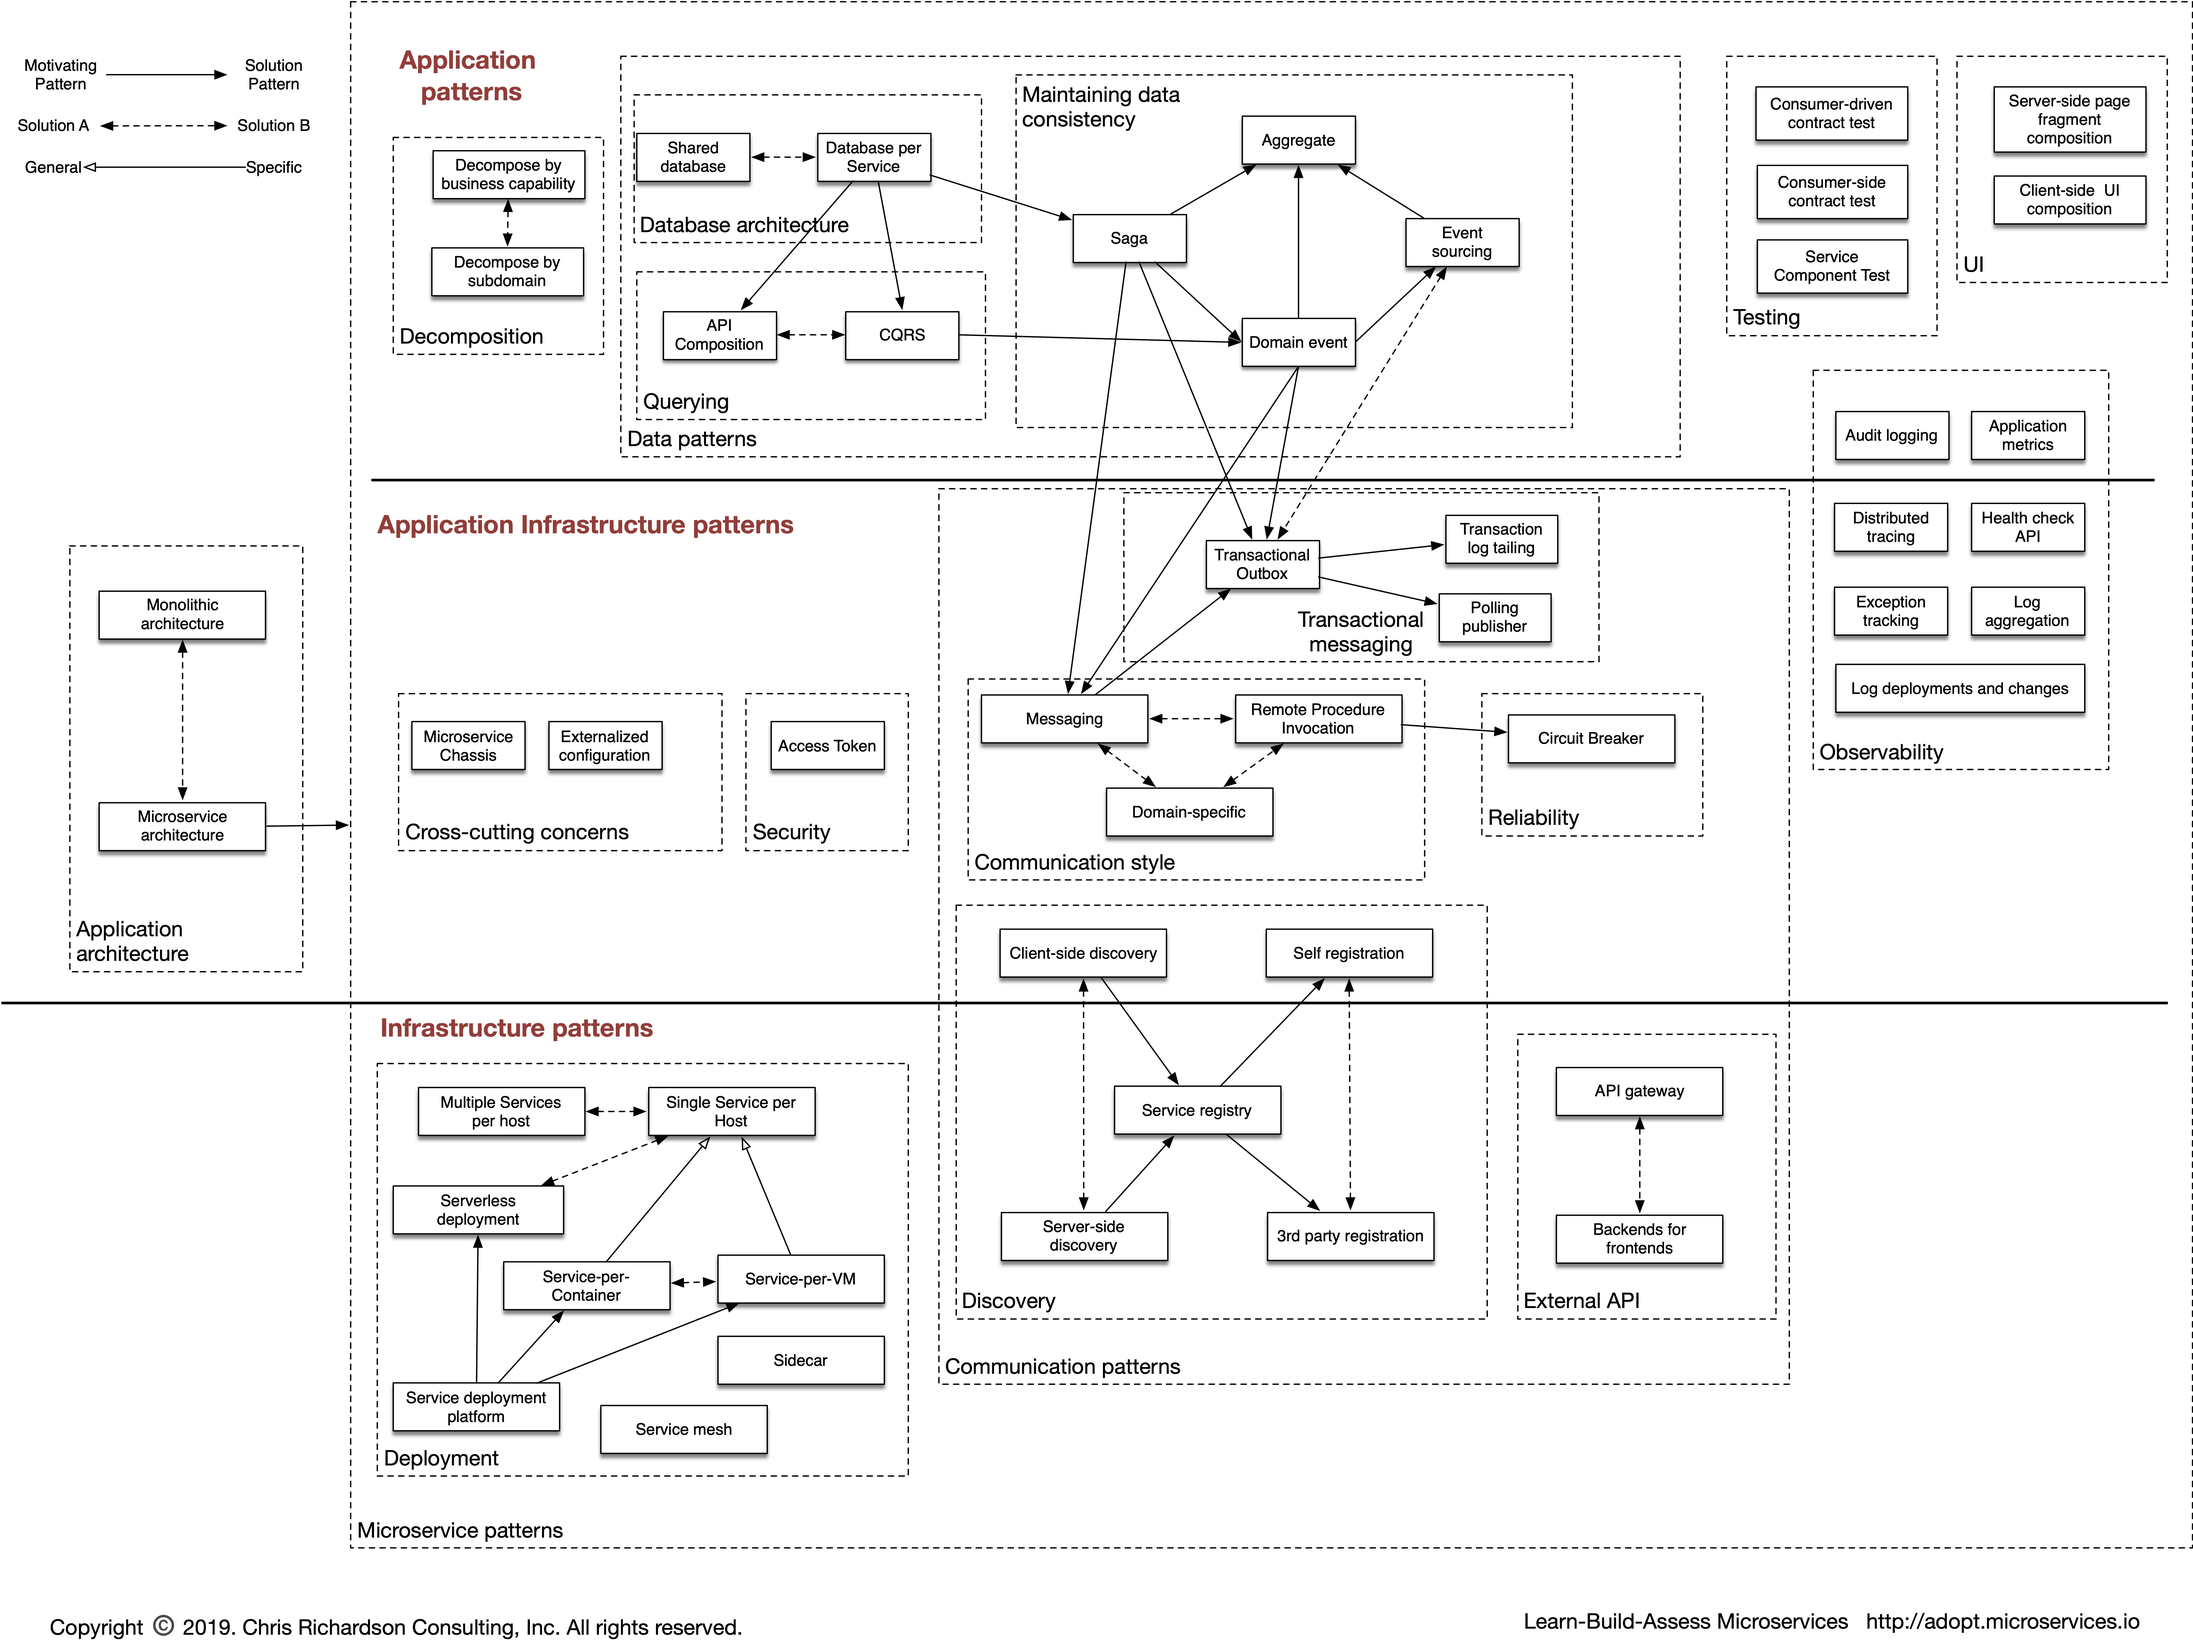
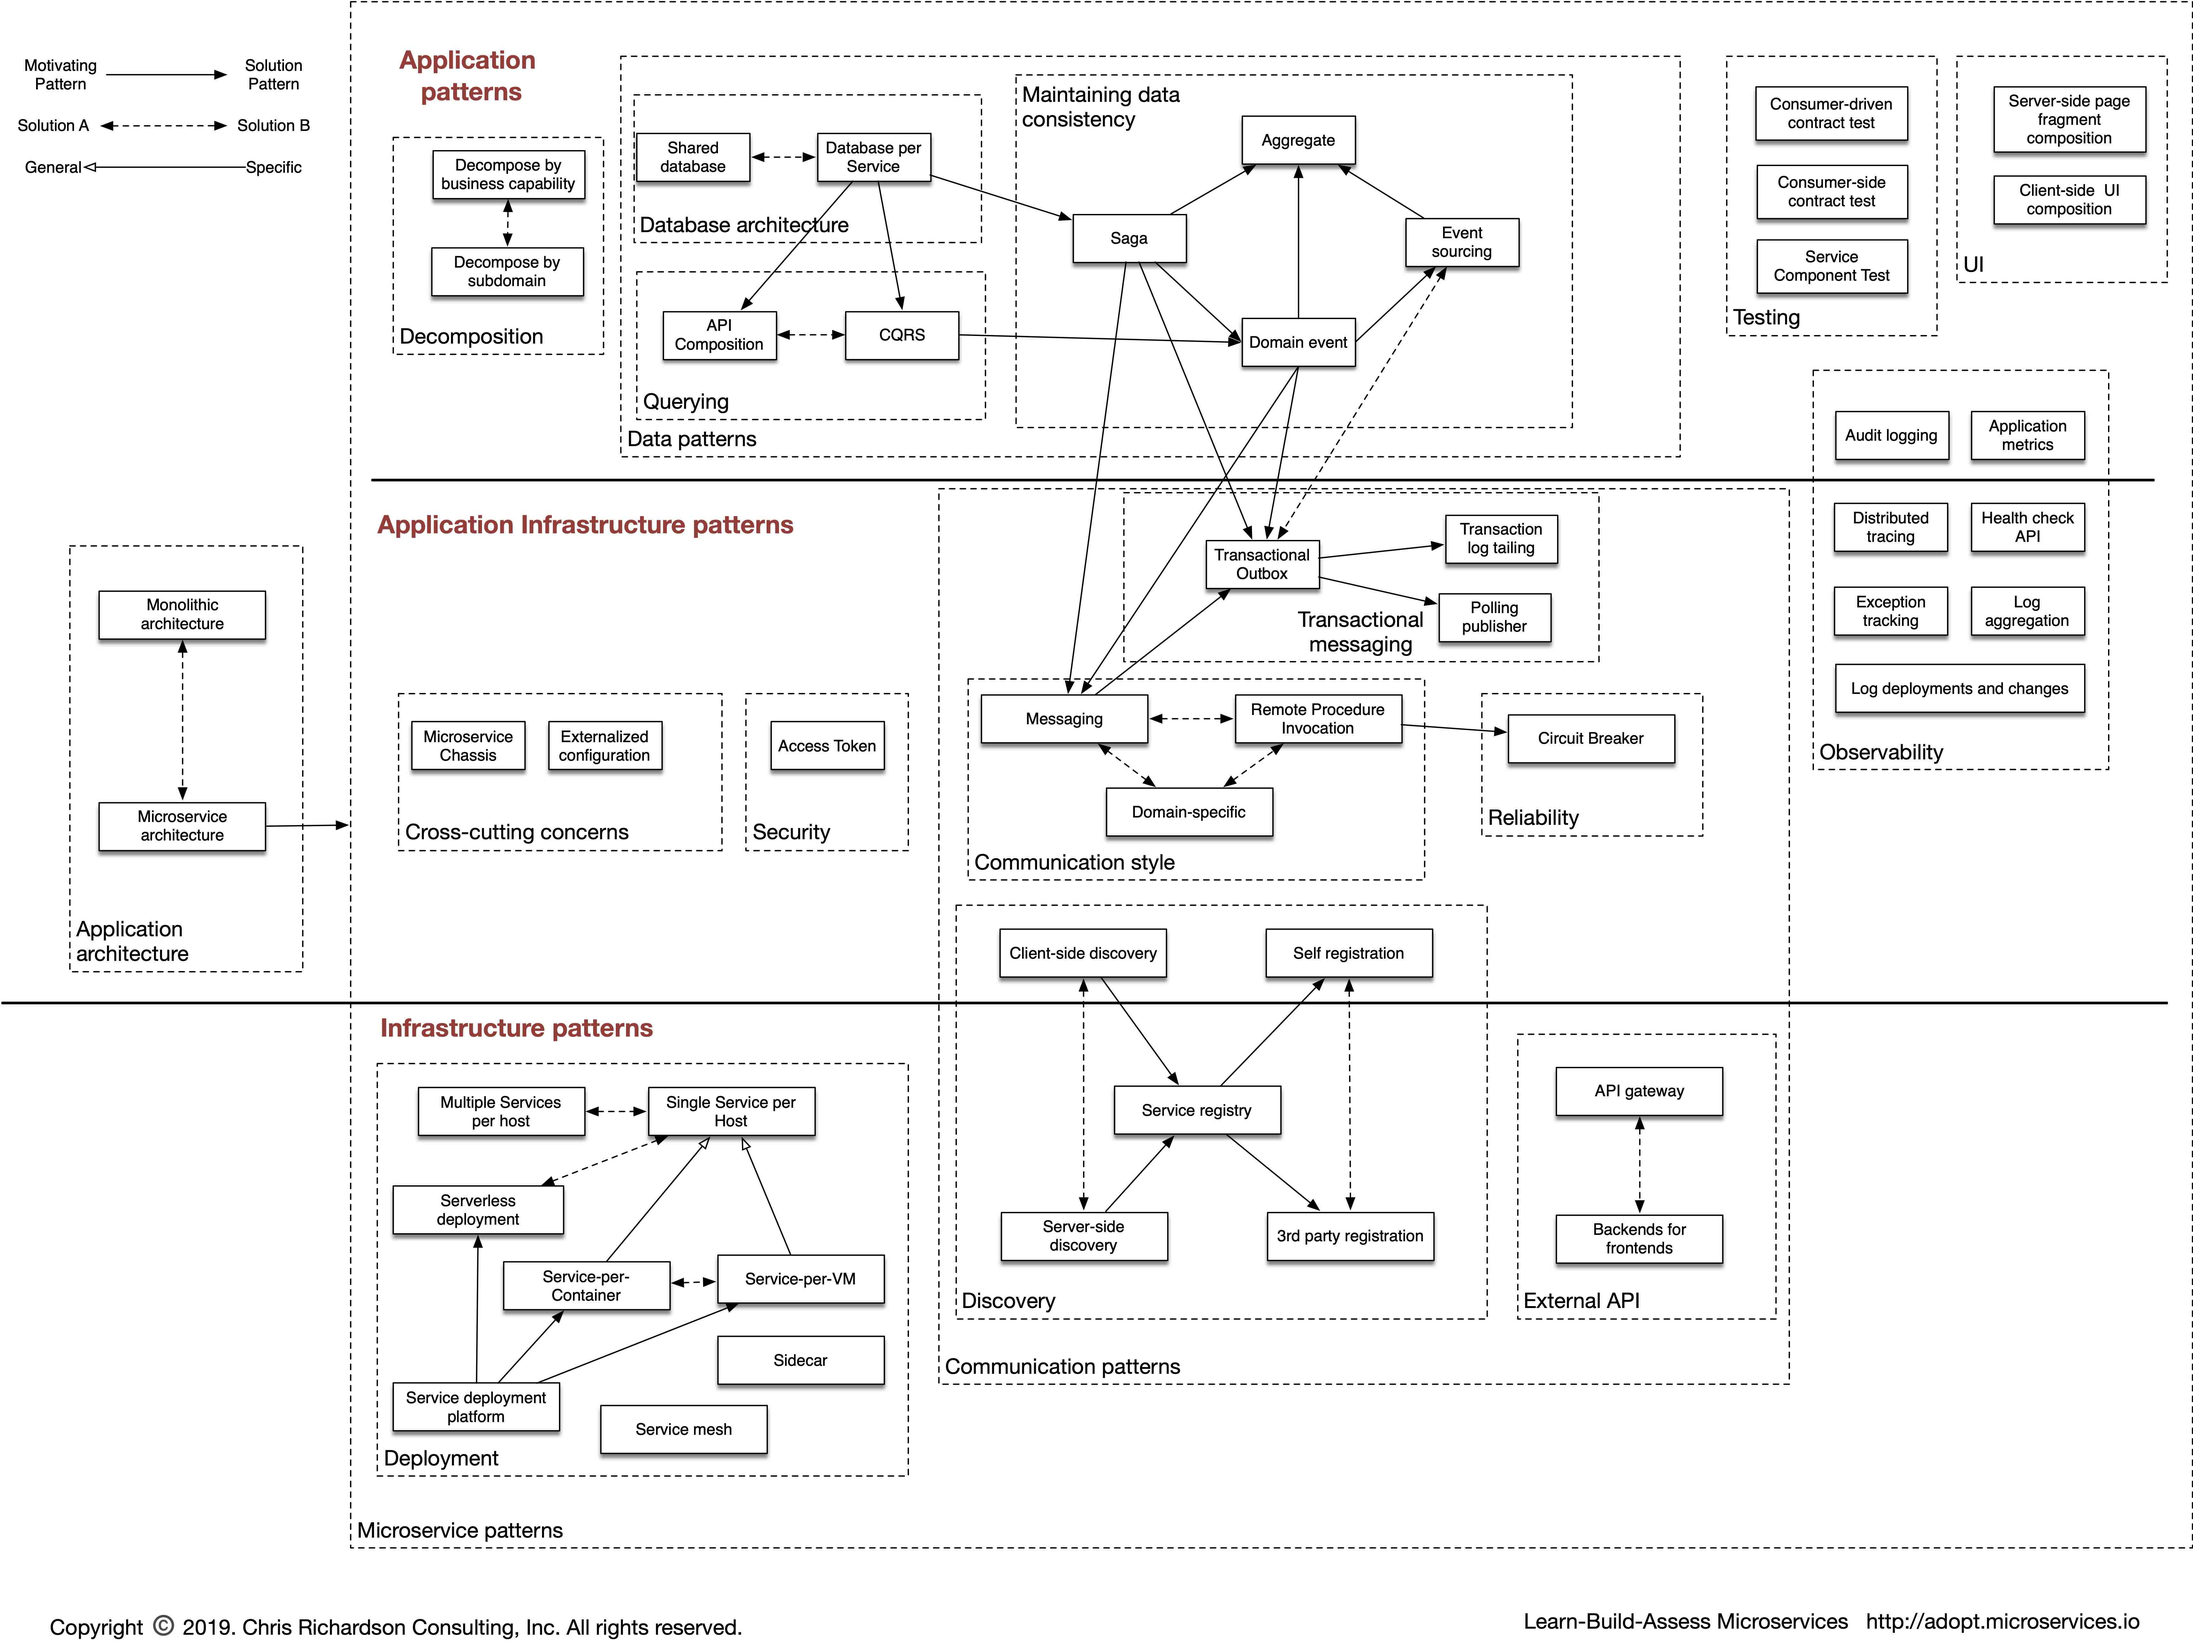
Compress images referenced in the README

diff --git a/README.md b/README.md
@@ -44,13 +44,13 @@ git clone https://github.com/byliuyang/short.git
    | reCAPTCHA type  | `reCAPTCHAv3`  |
    | Domains         | `localhost`    |
 
-   ![Register Site](doc/recaptcha/register-site.png)
+   ![Register Site](doc/recaptcha/register-site.jpg)
 
 1. Open `settings`. Copy `SITE KEY` and `SECRET KEY`.
 
-   ![Settings](doc/recaptcha/settings.png)
+   ![Settings](doc/recaptcha/settings.jpg)
 
-   ![Credentials](doc/recaptcha/credentials.png)
+   ![Credentials](doc/recaptcha/credentials.jpg)
 
 1. Replace the value of `RECAPTCHA_SECRET` in the `backend/.env` file with
    `SECRET KEY`.
@@ -70,13 +70,13 @@ git clone https://github.com/byliuyang/short.git
    | Application description    | `URL shortening service written in Go and React` |
    | Authorization callback URL | `http://localhost/oauth/github/sign-in/callback` |
 
-   ![OAuth Apps](doc/github/oauth-apps.png)
+   ![OAuth Apps](doc/github/oauth-apps.jpg)
 
-   ![New OAuth App](doc/github/new-oauth-app.png)
+   ![New OAuth App](doc/github/new-oauth-app.jpg)
 
 1. Copy `Client ID` and `Client Secret`.
 
-   ![Credentials](doc/github/credentials.png)
+   ![Credentials](doc/github/credentials.jpg)
 
 1. Replace the value of `GITHUB_CLIENT_ID` in the `backend/.env` file with
    `Client ID`.
@@ -95,11 +95,11 @@ git clone https://github.com/byliuyang/short.git
 
 1. Add `Facebook Login` to the app.
 
-   ![Login](doc/facebook/login.png)
+   ![Login](doc/facebook/login.jpg)
 
 1. Copy `App ID` and `App Secret` on `Settings` > `Basic` tab.
 
-   ![Credentials](doc/facebook/credentials.png)
+   ![Credentials](doc/facebook/credentials.jpg)
 
 1. Replace the value of `FACEBOOK_CLIENT_ID` in `backend/.env` file with `App ID`.
 1. Replace the value of `FACEBOOK_CLIENT_SECRET` in `backend/.env` file with
@@ -276,7 +276,7 @@ func InjectGraphQlService(
 
 ### Database Modeling
 
-![Entity Relation Diagram](doc/eng/db/er-v1.png)
+![Entity Relation Diagram](doc/eng/db/er-v1.jpg)
 
 ## Deployment
 
